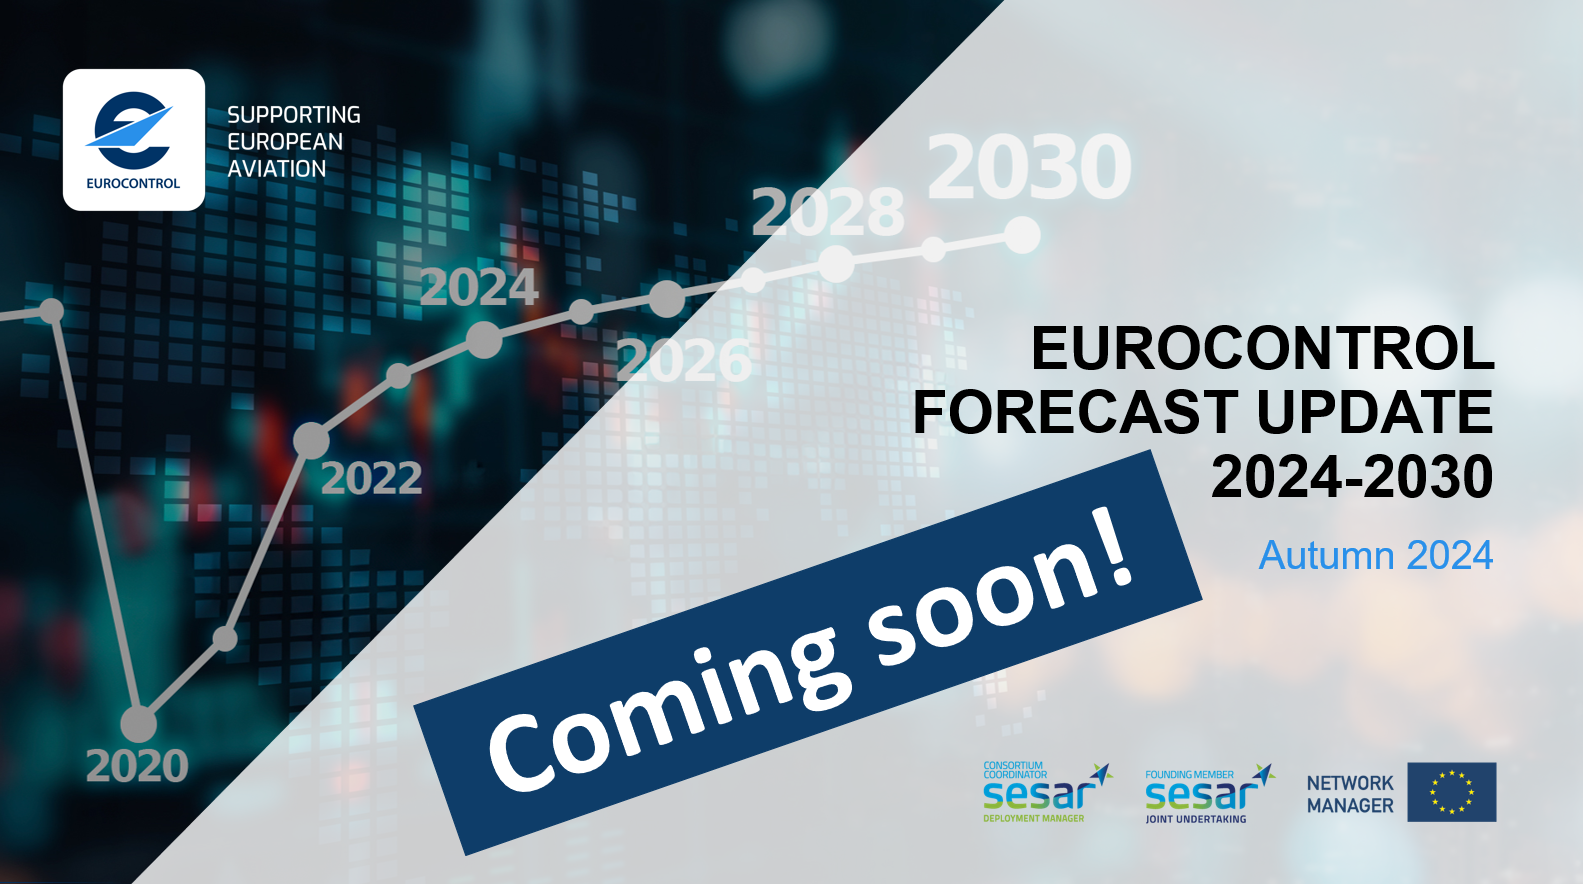
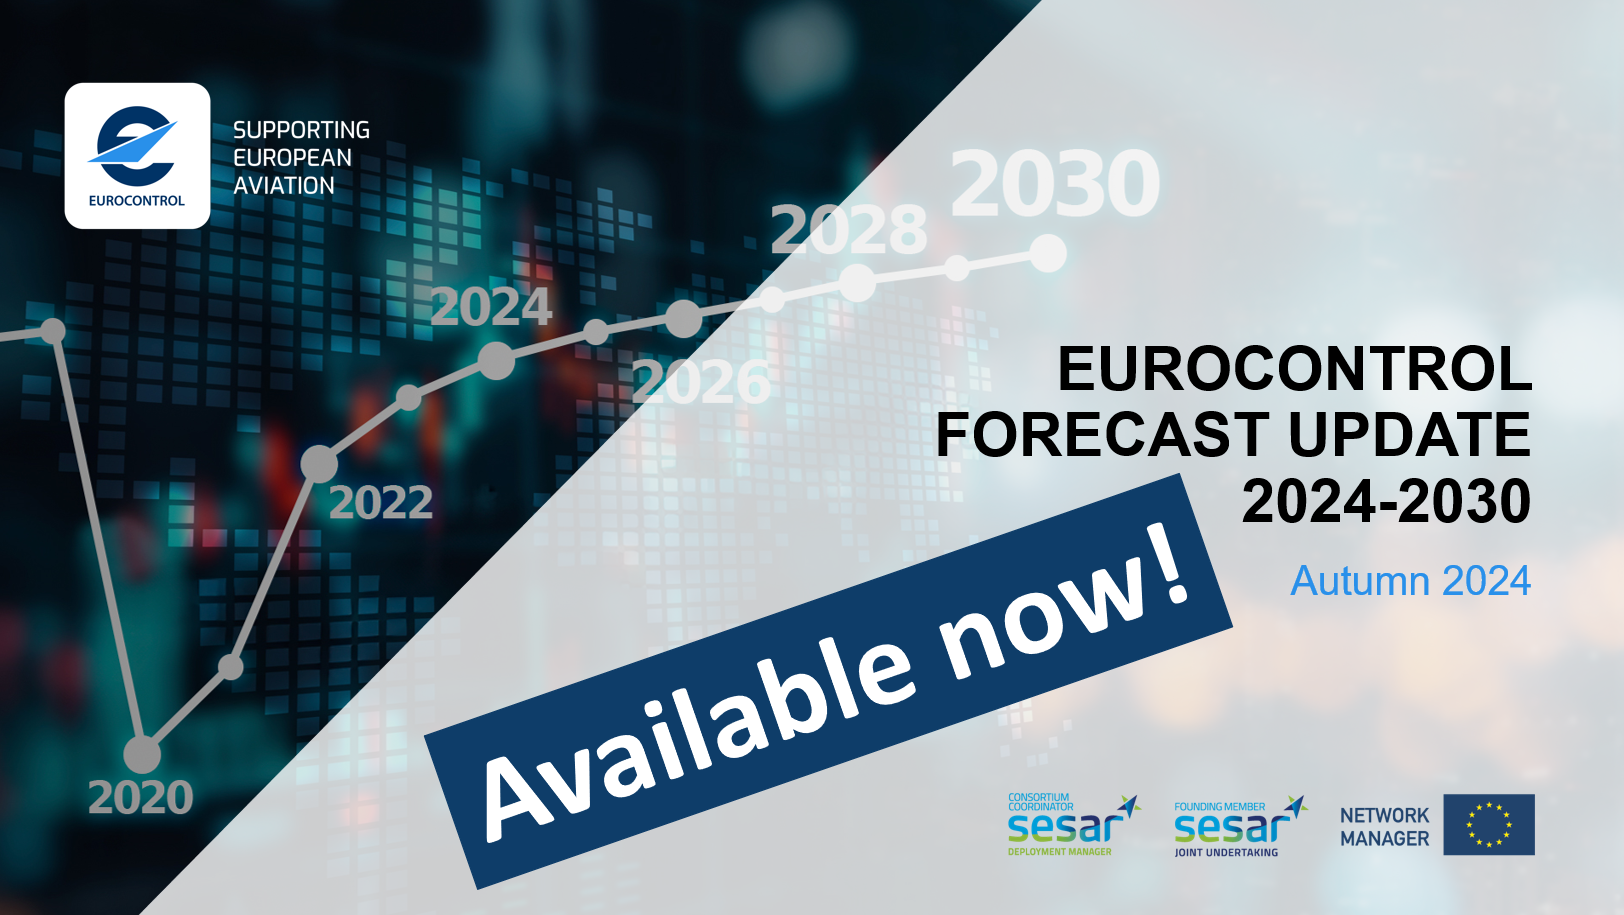
Landing page updated with new STATFOR forecast

diff --git a/content/_index.html b/content/_index.html
@@ -429,17 +429,17 @@ What’s new?
 </div>
 <div class="carousel-item">
 <div class="card border-0 rounded">
-<a href="https://www.eurocontrol.int/forecasting/medium-term-forecasts" target="_blank">
+<a href="https://www.eurocontrol.int/publication/eurocontrol-forecast-2024-2030-autumn-update" target="_blank">
 <img src="/images/landing/2024_10_statfor.png" style="border-top-left-radius: 1rem; border-top-right-radius: 1rem; width: 100%;" alt="Out soon: New STATFOR 7-year forecast">
 </a>
 <div style="padding: 1rem;">
 <h5>
-<a href="https://www.eurocontrol.int/forecasting/medium-term-forecasts" target="_blank"> Coming soon: Updated STATFOR 7-year forecast</a>
+<a href="https://www.eurocontrol.int/publication/eurocontrol-forecast-2024-2030-autumn-update" target="_blank"> Available now: Updated STATFOR 7-year forecast</a>
 </h5>
-<p><small>Get ready - our <b>updated STATFOR 7-year forecast</b> will be <b>available on Tuesday 15. October 2024!</b> It will include the latest flight trends, route patterns and GDP forecasts.</small></p>
+<p><small>Our <b>updated Seven-Year Forecast (Autumn 2024)</b> builds on the February 2024 publication and <b>incorporates the latest flight trends and route patterns</b> (including summer 2024). It also includes a partial update of forecast inputs, such as the GDP forecast.</small></p>
 </div>
 <div class="card-footer pt-0">
-<p><a href="https://www.eurocontrol.int/forecasting/medium-term-forecasts" class="card-link" target="_blank">Watch this space..</a> <i class="ml-2 fas fa-arrow-right"></i></p>
+<p><a href="https://www.eurocontrol.int/publication/eurocontrol-forecast-2024-2030-autumn-update" class="card-link" target="_blank">Read more</a> <i class="ml-2 fas fa-arrow-right"></i></p>
 </div>
 </div>
 </div>
@@ -816,4 +816,3 @@ function reloadIframeDelay() {
     iframe.attr("src", iframe.data("src")); 
 }
 </script>
-</div>
